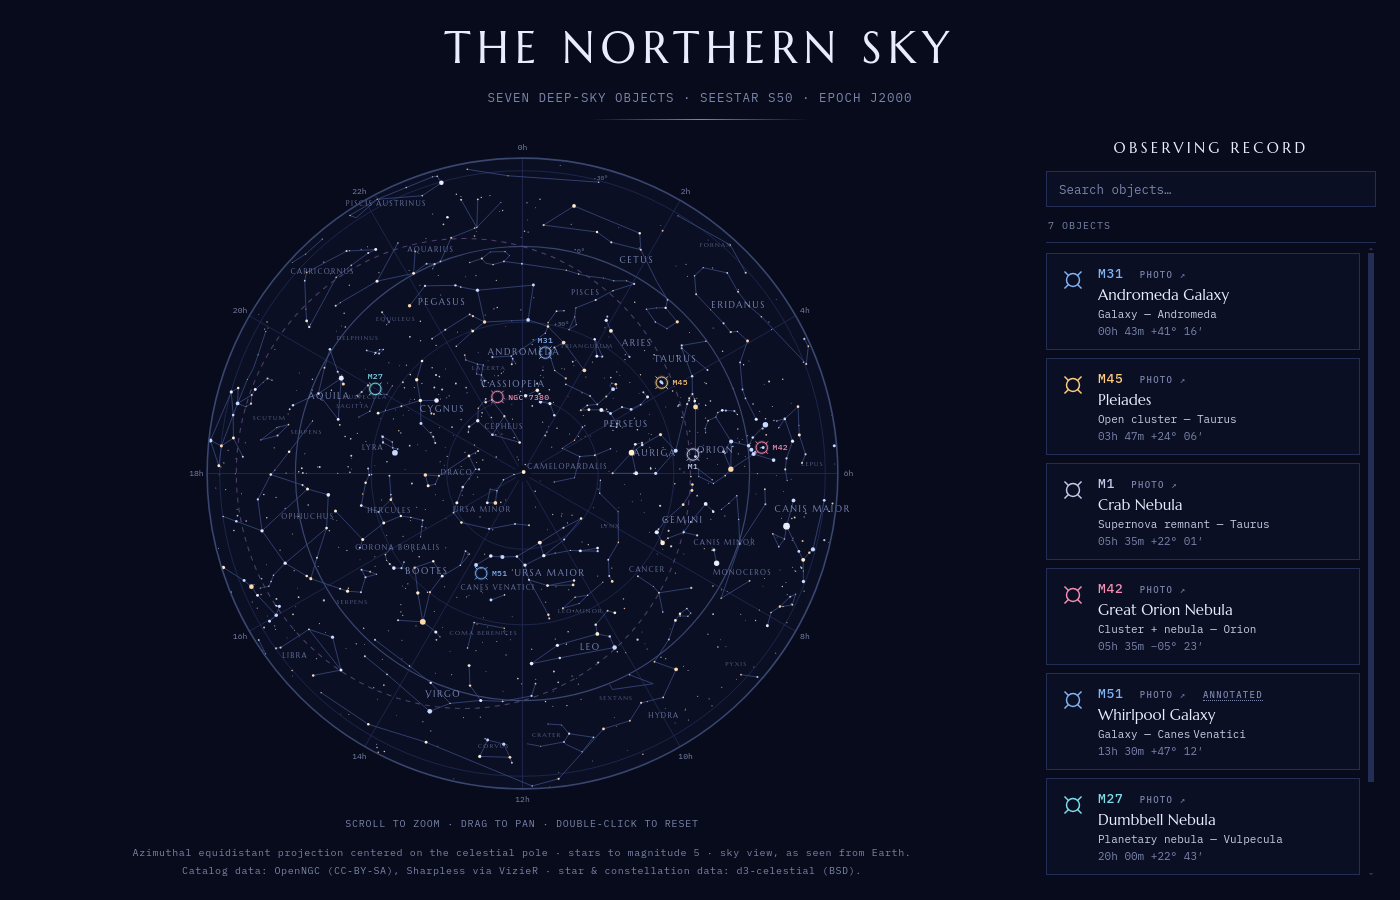
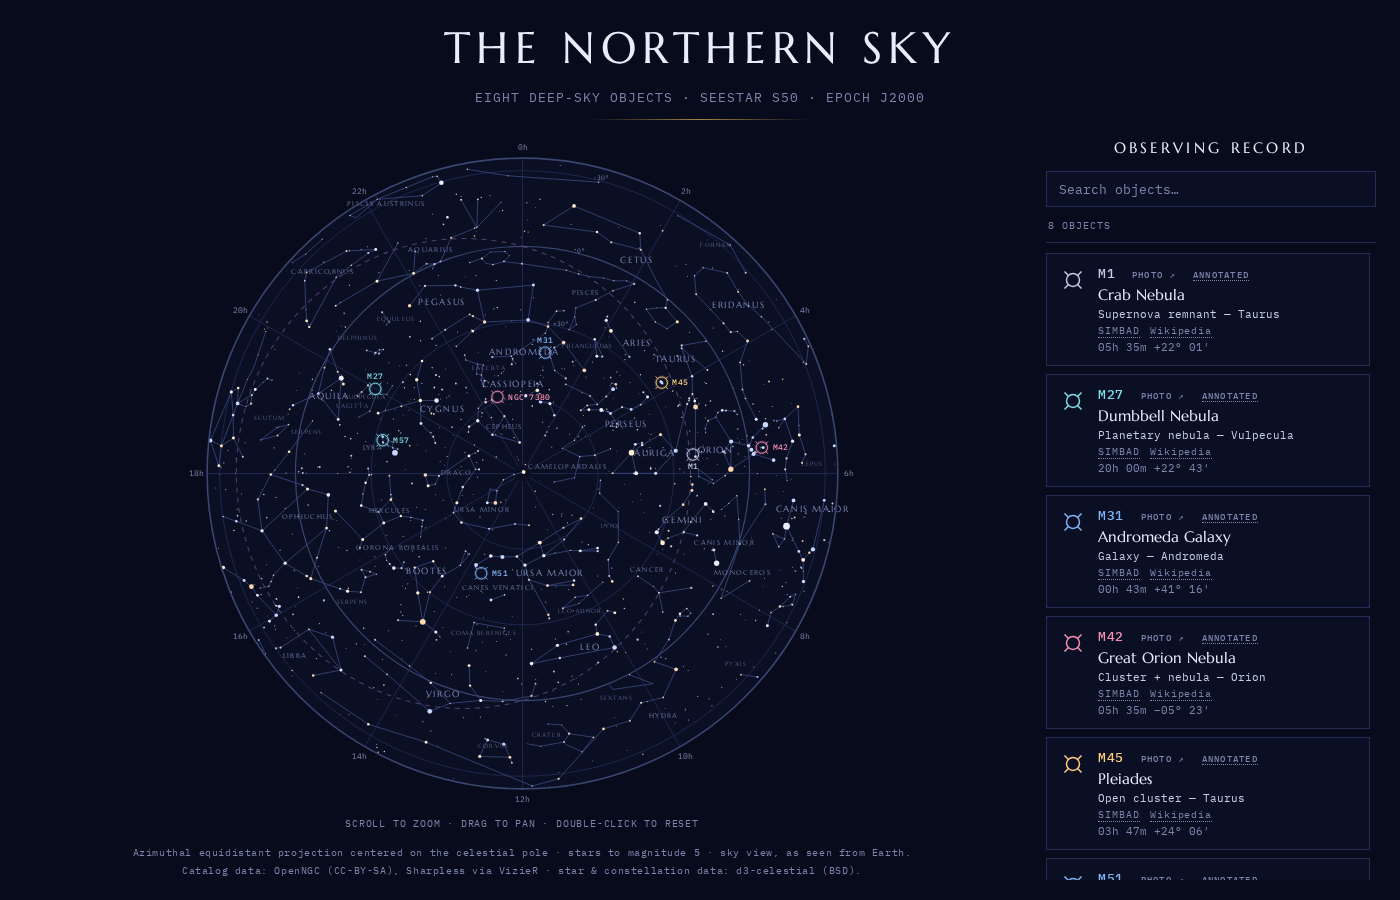
Refresh example chart screenshot for M57; subtitle now counts eight

diff --git a/examples/skymap.html b/examples/skymap.html
@@ -184,7 +184,7 @@ footer { margin-top:14px; text-align:center; color:var(--dim); font-size:10px;
 <div class="wrap">
 <header>
   <h1>THE NORTHERN SKY</h1>
-  <div class="sub">SEVEN DEEP-SKY OBJECTS · SEESTAR S50 · EPOCH J2000</div>
+  <div class="sub">EIGHT DEEP-SKY OBJECTS · SEESTAR S50 · EPOCH J2000</div>
   <div class="rule"></div>
 </header>
 <div class="layout">
